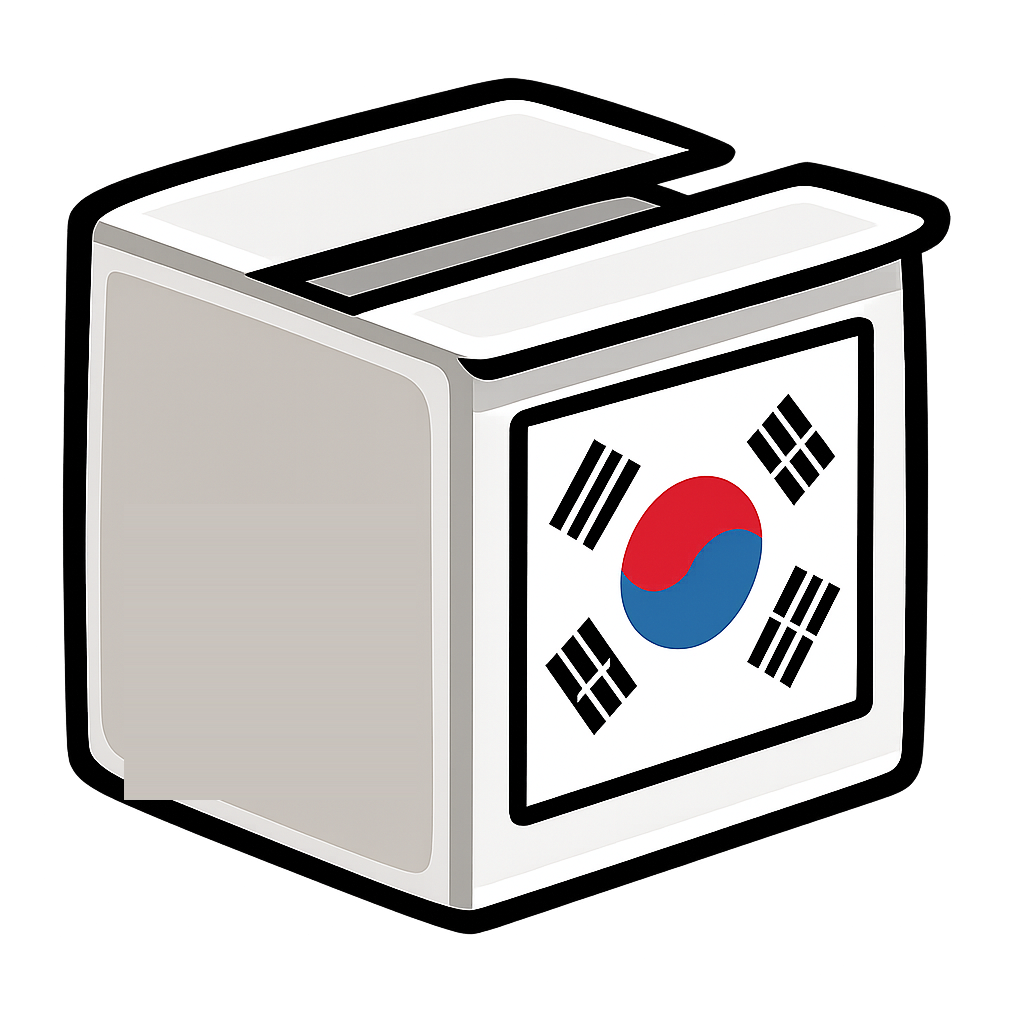
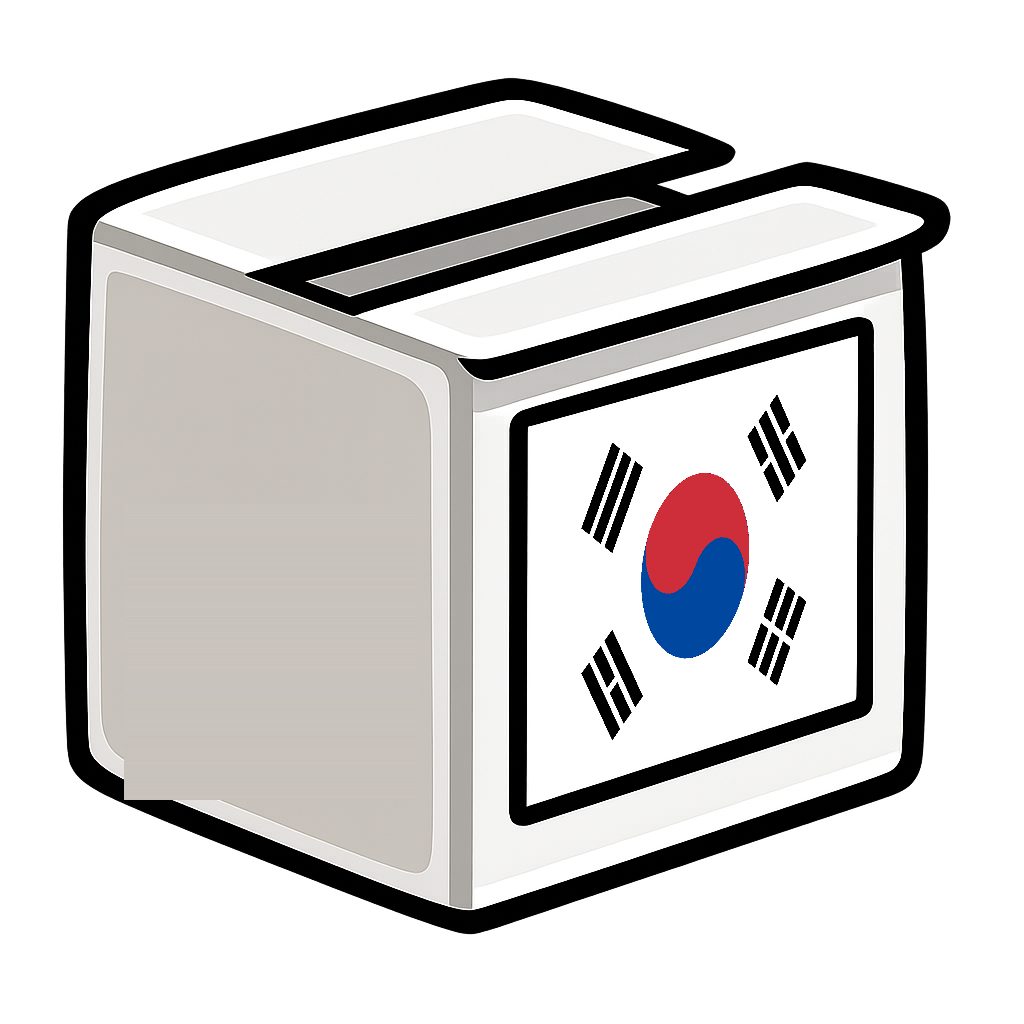
Accurate hand-drawn taegukgi on domestic-production box; muddy ochre tile color
Claude-Session: https://claude.ai/code/session_019QwctBLnb4UTXMJBnbargq

Changed region(s): [[0.5312, 0.375, 0.8125, 0.7188]]

diff --git a/index.html b/index.html
@@ -41,7 +41,7 @@
   --warn: #C77F00;
   --bad: #C03A2A;
   --scrim: rgba(6, 22, 26, 0.6);
-  --t-wheel: #E34234; --t-auto: #1E88C8; --t-arm: #F28C28; --t-legs: #F2C230; --t-tool: #8E3A9E; --t-hum: #D9DDE1; --t-floor: #3A9D5D; --t-made: #27407A; --t-union: #800020; --t-term: #5A5F66; --t-gundam: #2F5FB3; --t-eva: #7CC63E; --t-tf: #B5262B; --t-korea: #3C3F46;
+  --t-wheel: #E34234; --t-auto: #1E88C8; --t-arm: #F28C28; --t-legs: #F2C230; --t-tool: #8E3A9E; --t-hum: #D9DDE1; --t-floor: #3A9D5D; --t-made: #27407A; --t-union: #800020; --t-term: #5A5F66; --t-gundam: #2F5FB3; --t-eva: #7CC63E; --t-tf: #B5262B; --t-korea: #9C7A3C;
   --t-ink-dark: #2B2118; --t-ink-light: #FFFFFF;
   --p-1: #1E88C8; --p-2: #F2C230; --p-3: #E34234; --p-4: #800020;
   --font-title: 'Rye', 'Georgia', serif;
@@ -1903,7 +1903,7 @@ const faceHTML = (e, who = 'suit') => FACE_ART[who][e] || FACE_ART.suit[e] || e;
 // 같은 그림이 여러 개 있어도 박자가 겹치지 않게 시작점을 흩뜨림
 // 그림을 다시 그려도 폰에 남은 옛 그림이 보이지 않게 주소에 버전을 붙임
 // 파일마다 내용이 바뀔 때만 새로 받도록 파일 해시를 붙임 (빌드할 때 채움)
-const ART_HASH = {"tile-gundam-a.png": "41a00219", "ind-school-a.png": "1b0fc977", "robot-cobot-cook-b.png": "3f739fa6", "tile-tool-a.png": "48c7dc89", "tile-made-a.png": "d557ba97", "ind-training-b.png": "0efc1d0b", "robot-qarm-a.png": "901f7afc", "tile-legs-b.png": "c0299b41", "tile-union-b.png": "b3a03a42", "face-cook-frown.png": "e01a4907", "face-cook-neutral.png": "71441525", "ind-battery-b.png": "6e2bd18d", "ind-fire-a.png": "a71484d3", "face-trump-neutral.png": "5aecac90", "tile-legs-a.png": "2faadad6", "face-worker-angry.png": "eb6b88ed", "ind-steel-a.png": "0f070238", "face-suitf-delight.png": "d729900f", "ind-steel-b.png": "e122612f", "ind-defense-b.png": "5aa959f1", "face-cook-angry.png": "50c65318", "ind-port-b.png": "6f5dc395", "tile-tf-a.png": "d2bc0939", "ind-factory-a.png": "909659fd", "tile-term-b.png": "fa8e5b3f", "face-neutral.png": "a9a959b5", "tile-wheel-a.png": "9e98ebac", "face-cook-smile.png": "be9219e0", "tile-korea-b.png": "753ad290", "face-trump-tear.png": "21d22245", "tile-auto-b.png": "bb58686e", "ind-material-b.png": "a8f27197", "tile-korea-a.png": "1147ca55", "tile-union-a.png": "d48507d4", "ind-auto-a.png": "9a8abf4f", "face-frown.png": "26865767", "robot-centaur-a.png": "a9e1e03b", "tile-auto-a.png": "e7100d25", "robot-cobot-cook-a.png": "2acb022c", "face-worker-tear.png": "940dcfc3", "ind-autoparts-b.png": "a5dbd76a", "face-suitf-angry.png": "5b24ceb5", "face-suitf-tear.png": "d0923069", "robot-centaur-b.png": "848f1932", "robot-mm-a.png": "e5da97cf", "ind-defense-a.png": "23a0651c", "robot-quad-a.png": "1e1384cf", "ind-autoparts-a.png": "26dcf7ce", "tile-eva-b.png": "b64d5546", "face-cook-tear.png": "d529800c", "tile-gundam-b.png": "69722c17", "face-trump-delight.png": "e41c1f7d", "face-angry.png": "8542c3c5", "tile-floor-b.png": "7bfb4d09", "face-suitf-smile.png": "2bfa949d", "ind-material-a.png": "2c67685e", "tile-term-a.png": "f86a988f", "tile-eva-a.png": "48055f29", "tile-hum-a.png": "cdc85433", "ind-port-a.png": "0e5340b9", "ind-police-a.png": "717025fa", "wheel-tilt-ref.png": "4a1e31a2", "robot-cobot-a.png": "bb066d5e", "face-trump-angry.png": "6fc0cf6d", "tile-wheel-b.png": "df5d2104", "face-worker-neutral.png": "f4f1ff96", "robot-amr-a.png": "21455470", "face-delight.png": "4b63238d", "face-trump-frown.png": "4102f723", "robot-mm-b.png": "41cc89c7", "ind-fire-b.png": "c530534e", "ind-police-b.png": "750b1169", "ind-ess-b.png": "c7fac005", "ind-training-a.png": "a9fe00e5", "tile-tf-b.png": "23f3efda", "ind-aircraft-a.png": "53a6b218", "ind-school-b.png": "a14af652", "tile-arm-b.png": "6cb9dab3", "face-worker-delight.png": "56fdb189", "face-worker-smile.png": "7eaefd7c", "robot-quad-b.png": "9b27fe7b", "ind-chicken-a.png": "bd4bc4e3", "face-cook-delight.png": "5ceb20b0", "ind-battery-a.png": "2ead7359", "robot-agv-b.png": "397f8942", "face-tear.png": "7cacead6", "face-suitf-neutral.png": "b29259fe", "ind-auto-b.png": "f90715bb", "ind-shipyard-a.png": "7c43481e", "tile-tool-b.png": "c90763b3", "ind-factory-b.png": "b9dfaab4", "ind-chicken-b.png": "b4930a6b", "ind-shipyard-b.png": "098fdbae", "robot-qarm-b.png": "abd9a737", "tile-arm-a.png": "cd420a51", "tile-made-b.png": "7077aabd", "tile-floor-a.png": "14074a30", "robot-cobot-weld-a.png": "da53987b", "robot-agv-a.png": "ee67b65c", "ind-logistics-b.png": "9c5aeeca", "face-smile.png": "786eeb95", "face-worker-frown.png": "0f8d8086", "robot-cobot-weld-b.png": "a9e69108", "robot-amr-b.png": "e23a5198", "tile-hum-b.png": "01ca7c8b", "ind-ess-a.png": "83fff111", "face-suitf-frown.png": "1236f440", "ind-aircraft-b.png": "6afa5f2a", "face-trump-smile.png": "03674df8", "robot-cobot-b.png": "7ea58bc1", "ind-logistics-a.png": "b1b04f38"};
+const ART_HASH = {"tile-gundam-a.png": "41a00219", "ind-school-a.png": "1b0fc977", "robot-cobot-cook-b.png": "3f739fa6", "tile-tool-a.png": "48c7dc89", "tile-made-a.png": "d557ba97", "ind-training-b.png": "0efc1d0b", "robot-qarm-a.png": "901f7afc", "tile-legs-b.png": "c0299b41", "tile-union-b.png": "b3a03a42", "face-cook-frown.png": "e01a4907", "face-cook-neutral.png": "71441525", "ind-battery-b.png": "6e2bd18d", "ind-fire-a.png": "a71484d3", "face-trump-neutral.png": "5aecac90", "tile-legs-a.png": "2faadad6", "face-worker-angry.png": "eb6b88ed", "ind-steel-a.png": "0f070238", "face-suitf-delight.png": "d729900f", "ind-steel-b.png": "e122612f", "ind-defense-b.png": "5aa959f1", "face-cook-angry.png": "50c65318", "ind-port-b.png": "6f5dc395", "tile-tf-a.png": "d2bc0939", "ind-factory-a.png": "909659fd", "tile-term-b.png": "fa8e5b3f", "face-neutral.png": "a9a959b5", "tile-wheel-a.png": "9e98ebac", "face-cook-smile.png": "be9219e0", "tile-korea-b.png": "44e6a3df", "face-trump-tear.png": "21d22245", "tile-auto-b.png": "bb58686e", "ind-material-b.png": "a8f27197", "tile-korea-a.png": "2475839a", "tile-union-a.png": "d48507d4", "ind-auto-a.png": "9a8abf4f", "face-frown.png": "26865767", "robot-centaur-a.png": "a9e1e03b", "tile-auto-a.png": "e7100d25", "robot-cobot-cook-a.png": "2acb022c", "face-worker-tear.png": "940dcfc3", "ind-autoparts-b.png": "a5dbd76a", "face-suitf-angry.png": "5b24ceb5", "face-suitf-tear.png": "d0923069", "robot-centaur-b.png": "848f1932", "robot-mm-a.png": "e5da97cf", "ind-defense-a.png": "23a0651c", "robot-quad-a.png": "1e1384cf", "ind-autoparts-a.png": "26dcf7ce", "tile-eva-b.png": "b64d5546", "face-cook-tear.png": "d529800c", "tile-gundam-b.png": "69722c17", "face-trump-delight.png": "e41c1f7d", "face-angry.png": "8542c3c5", "tile-floor-b.png": "7bfb4d09", "face-suitf-smile.png": "2bfa949d", "ind-material-a.png": "2c67685e", "tile-term-a.png": "f86a988f", "tile-eva-a.png": "48055f29", "tile-hum-a.png": "cdc85433", "ind-port-a.png": "0e5340b9", "ind-police-a.png": "717025fa", "wheel-tilt-ref.png": "4a1e31a2", "robot-cobot-a.png": "bb066d5e", "face-trump-angry.png": "6fc0cf6d", "tile-wheel-b.png": "df5d2104", "face-worker-neutral.png": "f4f1ff96", "robot-amr-a.png": "21455470", "face-delight.png": "4b63238d", "face-trump-frown.png": "4102f723", "robot-mm-b.png": "41cc89c7", "ind-fire-b.png": "c530534e", "ind-police-b.png": "750b1169", "ind-ess-b.png": "c7fac005", "ind-training-a.png": "a9fe00e5", "tile-tf-b.png": "23f3efda", "ind-aircraft-a.png": "53a6b218", "ind-school-b.png": "a14af652", "tile-arm-b.png": "6cb9dab3", "face-worker-delight.png": "56fdb189", "face-worker-smile.png": "7eaefd7c", "robot-quad-b.png": "9b27fe7b", "ind-chicken-a.png": "bd4bc4e3", "face-cook-delight.png": "5ceb20b0", "ind-battery-a.png": "2ead7359", "robot-agv-b.png": "397f8942", "face-tear.png": "7cacead6", "face-suitf-neutral.png": "b29259fe", "ind-auto-b.png": "f90715bb", "ind-shipyard-a.png": "7c43481e", "tile-tool-b.png": "c90763b3", "ind-factory-b.png": "b9dfaab4", "ind-chicken-b.png": "b4930a6b", "ind-shipyard-b.png": "098fdbae", "robot-qarm-b.png": "abd9a737", "tile-arm-a.png": "cd420a51", "tile-made-b.png": "7077aabd", "tile-floor-a.png": "14074a30", "robot-cobot-weld-a.png": "da53987b", "robot-agv-a.png": "ee67b65c", "ind-logistics-b.png": "9c5aeeca", "face-smile.png": "786eeb95", "face-worker-frown.png": "0f8d8086", "robot-cobot-weld-b.png": "a9e69108", "robot-amr-b.png": "e23a5198", "tile-hum-b.png": "01ca7c8b", "ind-ess-a.png": "83fff111", "face-suitf-frown.png": "1236f440", "ind-aircraft-b.png": "6afa5f2a", "face-trump-smile.png": "03674df8", "robot-cobot-b.png": "7ea58bc1", "ind-logistics-a.png": "b1b04f38"};
 // 게임에서는 가벼운 webp(assets/w/)를 씀. 파일 이름은 png와 같고 확장자만 다름
 const av = f => { const n = f.replace('assets/', ''); return `assets/w/${n.replace(/\.png$/, '.webp')}?v=${ART_HASH[n] || '0'}`; };
 // 업종 아이콘(ind-)은 a프레임만, 로봇·부품은 a·b를 번갈아 (팔이 까딱, 다리가 제자리걸음 등)
@@ -2255,7 +2255,7 @@ function banner(text, delay) {
 }
 
 // ───────── 진행 ─────────
-const BUILD_V = '1003-164552';
+const BUILD_V = '1003-164730';
 function loop(t) {
   const dt = Math.min(0.1, (t - (S.last || t)) / 1000);
   S.last = t;
